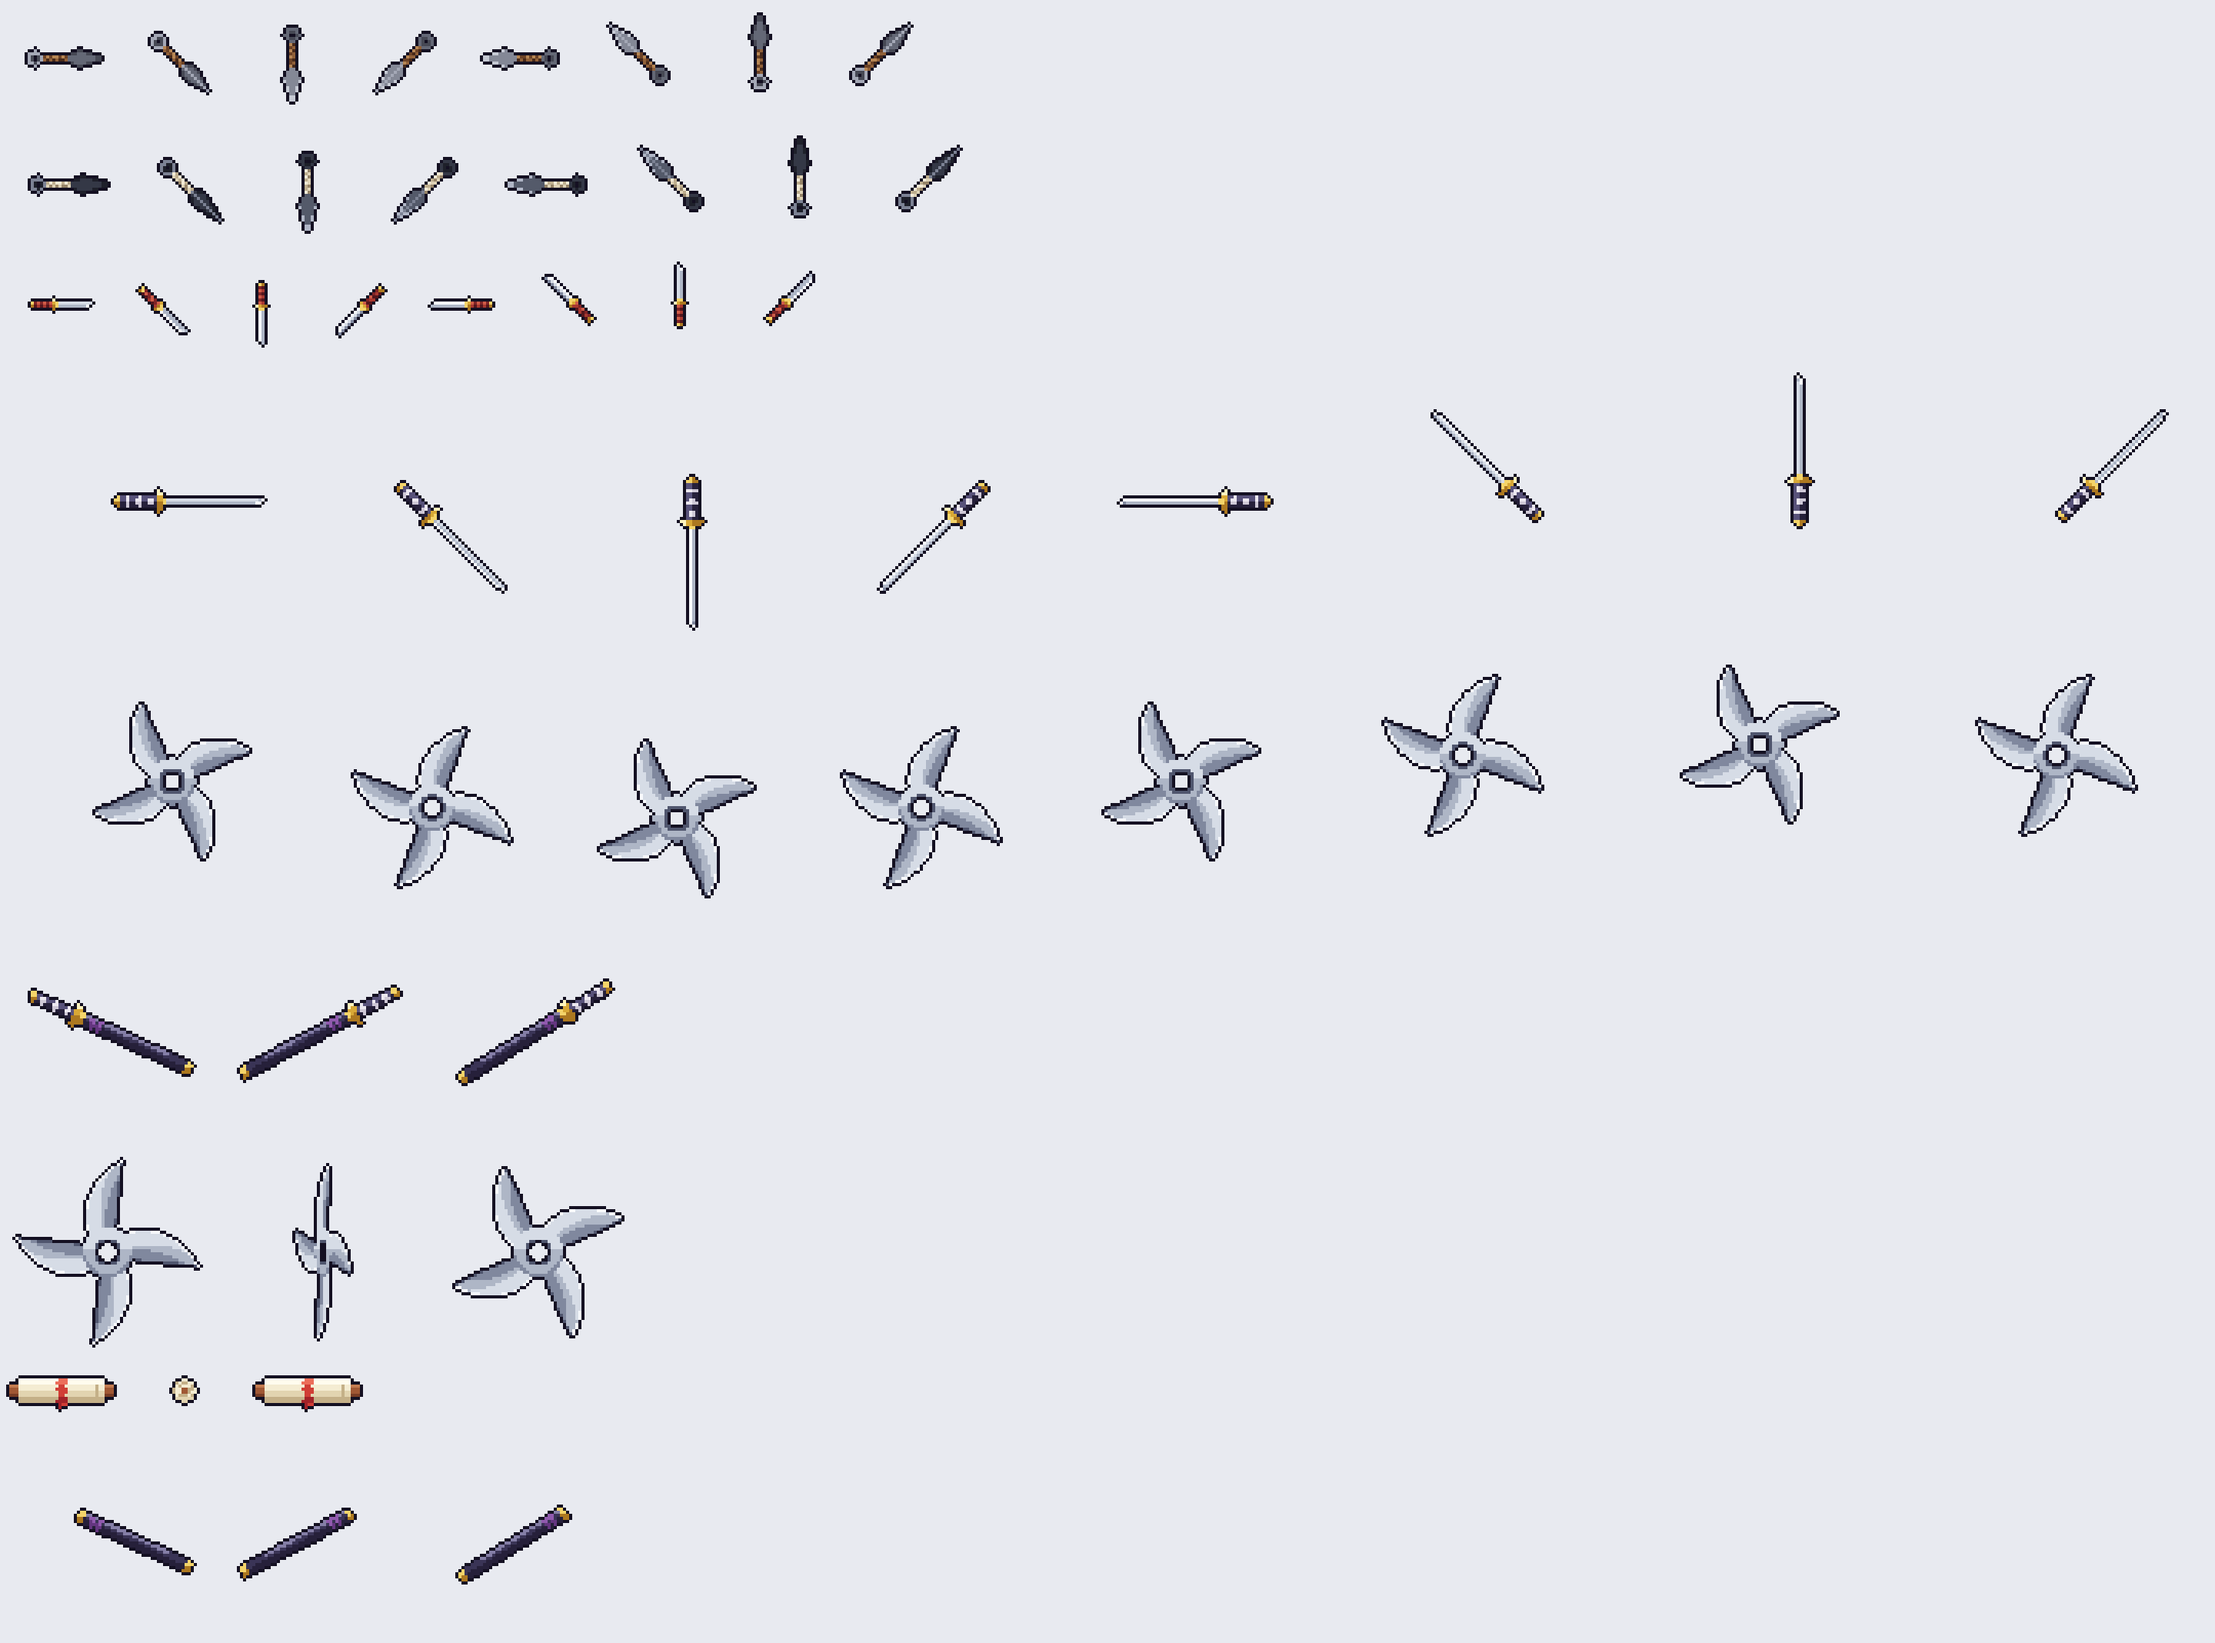
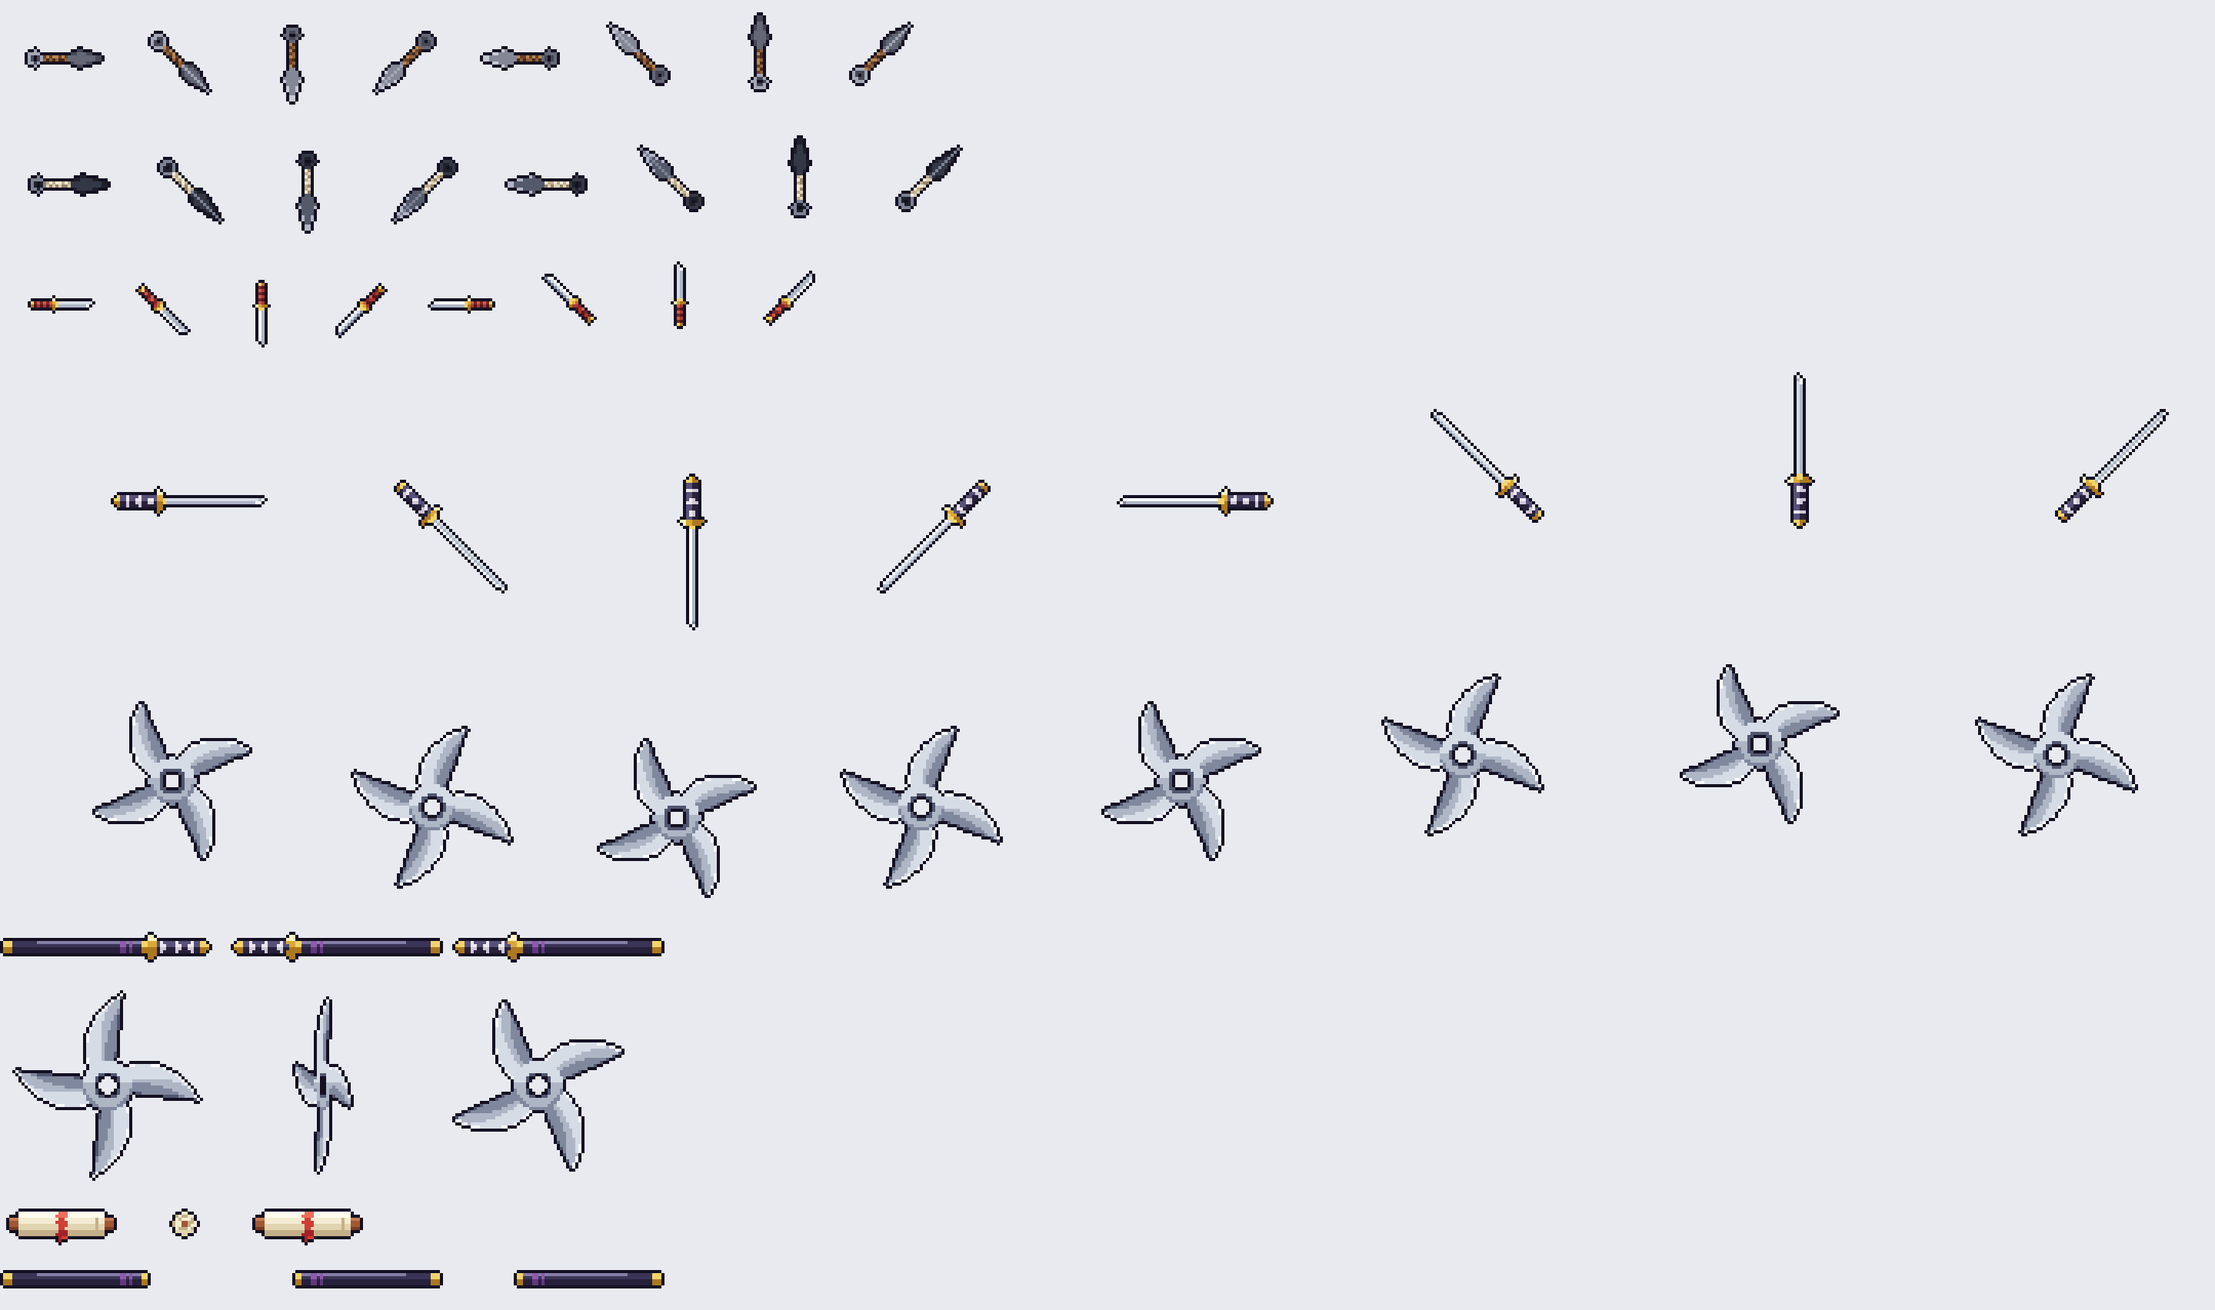
visual: espada longa deitada no cinto, como na referência das 8 vistas
- A katana equipada fica na horizontal, na altura do cinto, passando
  dos dois lados do corpo em todas as vistas; as mãos ficam na frente
  dela e, de costas, ela atravessa a lombar.
- O cabo fica do lado esquerdo do personagem: de frente, à direita da
  tela; de costas, à esquerda; de lado, para a frente.
- Mesmo desenho, um pouco mais comprida (~66 px), como na referência.
  A bainha vazia do golpe segue a mesma posição.

Claude-Session: https://claude.ai/code/session_013EwgXBRvGRJCaiRUvzAoiD

diff --git a/public/weaponData.js b/public/weaponData.js
@@ -1,3 +1,3 @@
 // GERADO por arte/armas-vfx/gerador/exportar.py: não edite à mão.
 // Armas no boneco: `mao` = 16 ângulos (0° = direita, de 22,5 em 22,5; o centro é o punho); `costas` e `bainha` = 3 vistas (frente, lado, costas). `onde` = onde a arma fica parada; `lanca` = arma de arremesso.
-export const ARMAS = {"versao":2,"armas":{"kunai_training":{"onde":"mao","mao":{"arquivo":"assets/weapons/kunai_training.png","quadro":[38,38],"ancora":[19,19],"angulos":16}},"kunai":{"onde":"mao","mao":{"arquivo":"assets/weapons/kunai.png","quadro":[40,40],"ancora":[20,20],"angulos":16}},"tanto":{"onde":"mao","mao":{"arquivo":"assets/weapons/tanto.png","quadro":[34,34],"ancora":[17,17],"angulos":16}},"katana":{"onde":"costas","costas":{"arquivo":"assets/weapons/katana.png","quadro":[70,70],"ancora":[35,35],"desloc":[[-4,6],[6,7],[0,3]]},"mao":{"arquivo":"assets/weapons/katana_mao.png","quadro":[90,90],"ancora":[45,45],"angulos":16},"bainha":{"arquivo":"assets/weapons/katana_bainha.png","quadro":[70,70],"ancora":[35,35],"desloc":[[-4,6],[6,7],[0,3]]}},"fuma_shuriken":{"onde":"costas","costas":{"arquivo":"assets/weapons/fuma_shuriken.png","quadro":[70,70],"ancora":[35,35],"desloc":[[0,2],[6,-1],[0,-1]]},"mao":{"arquivo":"assets/weapons/fuma_shuriken_mao.png","quadro":[88,88],"ancora":[44,44],"angulos":16},"lanca":true},"scroll":{"onde":"costas","costas":{"arquivo":"assets/weapons/scroll.png","quadro":[40,16],"ancora":[20,8],"desloc":[[0,5],[5,5],[0,5]]}}}};
+export const ARMAS = {"versao":2,"armas":{"kunai_training":{"onde":"mao","mao":{"arquivo":"assets/weapons/kunai_training.png","quadro":[38,38],"ancora":[19,19],"angulos":16}},"kunai":{"onde":"mao","mao":{"arquivo":"assets/weapons/kunai.png","quadro":[40,40],"ancora":[20,20],"angulos":16}},"tanto":{"onde":"mao","mao":{"arquivo":"assets/weapons/tanto.png","quadro":[34,34],"ancora":[17,17],"angulos":16}},"katana":{"onde":"costas","costas":{"arquivo":"assets/weapons/katana.png","quadro":[72,16],"ancora":[36,8],"desloc":[[0,8],[3,8],[0,8]]},"mao":{"arquivo":"assets/weapons/katana_mao.png","quadro":[90,90],"ancora":[45,45],"angulos":16},"bainha":{"arquivo":"assets/weapons/katana_bainha.png","quadro":[72,16],"ancora":[36,8],"desloc":[[0,8],[3,8],[0,8]]}},"fuma_shuriken":{"onde":"costas","costas":{"arquivo":"assets/weapons/fuma_shuriken.png","quadro":[70,70],"ancora":[35,35],"desloc":[[0,2],[6,-1],[0,-1]]},"mao":{"arquivo":"assets/weapons/fuma_shuriken_mao.png","quadro":[88,88],"ancora":[44,44],"angulos":16},"lanca":true},"scroll":{"onde":"costas","costas":{"arquivo":"assets/weapons/scroll.png","quadro":[40,16],"ancora":[20,8],"desloc":[[0,5],[5,5],[0,5]]}}}};

diff --git a/arte/armas-vfx/gerador/armas.py b/arte/armas-vfx/gerador/armas.py
@@ -93,7 +93,7 @@ def tanto_sample(u, v, lit):
     return None
 
 
-KATANA_LEN = 1.75   # chibi: espada longa de verdade (quase 2/3 da altura do boneco)
+KATANA_LEN = 2.0    # chibi: espada longa de verdade (~66 px, passa bem dos dois lados do corpo)
 KATANA_W = 1.3      # e mais grossa
 
 
@@ -273,11 +273,12 @@ HAND = {
 
 # Costas: tamanho do quadro, e por vista (frente, lado, costas): ângulo da espada / deslocamento do meio
 # em relação à âncora das costas (pixels do boneco; na vista de lado o boneco olha para a esquerda,
-# então as costas ficam para +x). A espada longa vai quase deitada na lombar: de frente, o cabo sai de um lado
-# do quadril e a ponta do outro; de lado, o cabo sai para trás e a ponta na frente (posições medidas na silhueta
-# do boneco: na diagonal, ela some atrás da cabeça grande e do corpo).
+# então as costas ficam para +x).
 BACK = {
-    "katana": dict(size=(70, 70), views=[dict(ang=-155, off=(-4, 6)), dict(ang=-28, off=(6, 7)), dict(ang=-32, off=(0, 3))]),
+    # Espada longa deitada na horizontal, na altura do cinto, com as duas pontas para fora do corpo em todas as
+    # vistas (referência do Victor). O cabo fica do lado esquerdo do personagem: de frente, à direita da tela;
+    # de costas, à esquerda; de lado (olhando para a esquerda), para a frente.
+    "katana": dict(size=(72, 16), views=[dict(ang=0, off=(0, 8)), dict(ang=180, off=(3, 8)), dict(ang=180, off=(0, 8))]),
     # Shuriken Gigante: maior que as costas; de frente, as 4 pontas saem em volta do corpo (giro medido na silhueta).
     "fuma_shuriken": dict(size=(70, 70), views=[dict(off=(0, 2), rot=75), dict(off=(6, -1)), dict(off=(0, -1), rot=45)]),
     "scroll": dict(size=(40, 16), views=[dict(off=(0, 5)), dict(off=(5, 5)), dict(off=(0, 5))]),

diff --git a/arte/armas-vfx/LEIAME.md b/arte/armas-vfx/LEIAME.md
@@ -84,10 +84,11 @@ só tem um lugar para ela); o pergaminho é à parte e fica sempre nas costas.
 - **Shuriken Gigante (arremesso, `lanca` nos dados):** 60 px de ponta a ponta, maior que as costas (de frente, as
   lâminas saem dos dois lados da cintura). No golpe ela aparece na mão no preparo e sai voando no lançamento
   (efeito `fuma`, girando); as costas ficam vazias até ela terminar o caminho.
-- **Nas costas:** o meio do desenho vai na âncora das costas mais o deslocamento da vista (`desloc` nos dados). A
-  espada longa é grande (~58 px) e vai quase deitada na lombar: de frente o cabo sai de um lado do quadril e a ponta
-  do outro; de lado o cabo sai para trás. Essas posições foram medidas na silhueta do boneco (na diagonal, a cabeça
-  chibi grande e o corpo escondem a espada inteira).
+- **Nas costas:** o meio do desenho vai na âncora das costas mais o deslocamento da vista (`desloc` nos dados).
+  A espada longa (~66 px) vai **deitada na horizontal, na altura do cinto**, como na referência das 8 vistas: as
+  duas pontas passam bem dos lados do corpo, as mãos ficam na frente dela e, de costas, ela atravessa a lombar. O
+  cabo fica do lado esquerdo do personagem: de frente, à direita da tela; de costas, à esquerda; de lado, para a
+  frente.
 
 Ordem de desenho (paperdoll):
 

diff --git a/DEPLOY.md b/DEPLOY.md
@@ -756,8 +756,8 @@ O que muda:
 5. **Kit B:** 🌀 Ilusão (espiral em volta: atordoa todos a até 3 casas) e 🌑 Sombra (linha no chão até o primeiro
    slime, que fica preso).
 6. **Armas (uma de ataque por vez):** equipe a Kunai na 🎒: ela fica na mão, com o punho fechado no cabo, e o 🗡
-   vira um golpe com ela (recua, estoca, desce). Equipe a Espada Longa: a kunai sai da mão e a espada fica grande na
-   lombar; no 🗡 ela sai das costas para a mão, corta e volta (a bainha vazia fica nas costas). O pergaminho
+   vira um golpe com ela (recua, estoca, desce). Equipe a Espada Longa: a kunai sai da mão e a espada fica deitada no
+   cinto, passando dos dois lados do corpo; no 🗡 ela sai para a mão, corta e volta (a bainha vazia fica no cinto). O pergaminho
    continua nas costas com qualquer arma.
 7. **Shuriken Gigante:** equipada, fica enorme nas costas (de frente, as lâminas saem dos lados da cintura). O 🗡
    vira um arremesso: ela sai girando até 6 casas, atravessa todos os slimes na linha (85 de dano em cada) e volta
